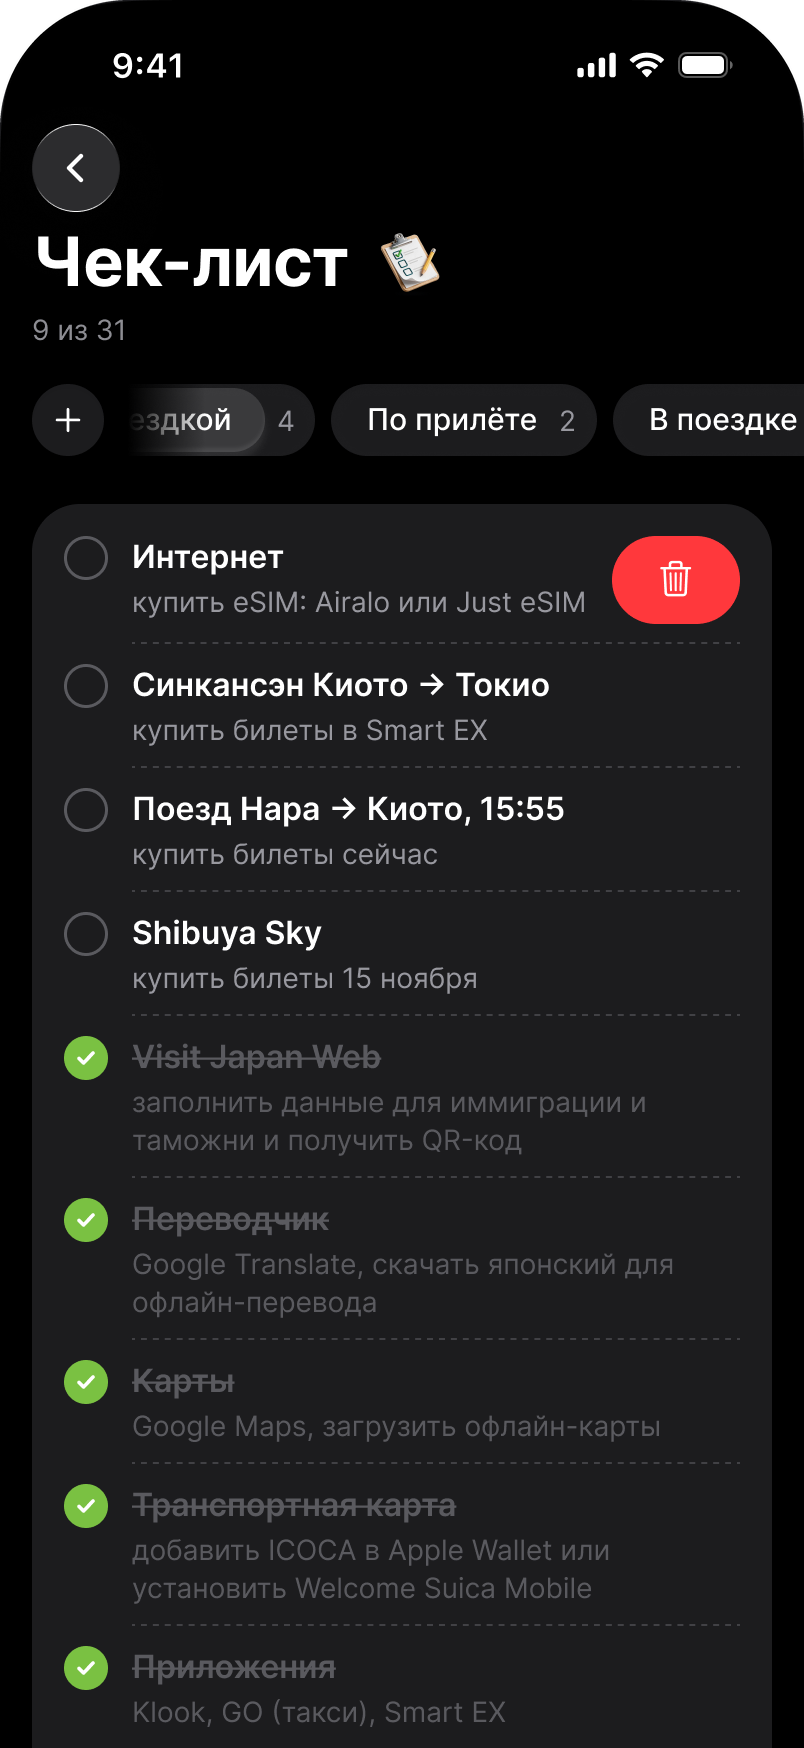
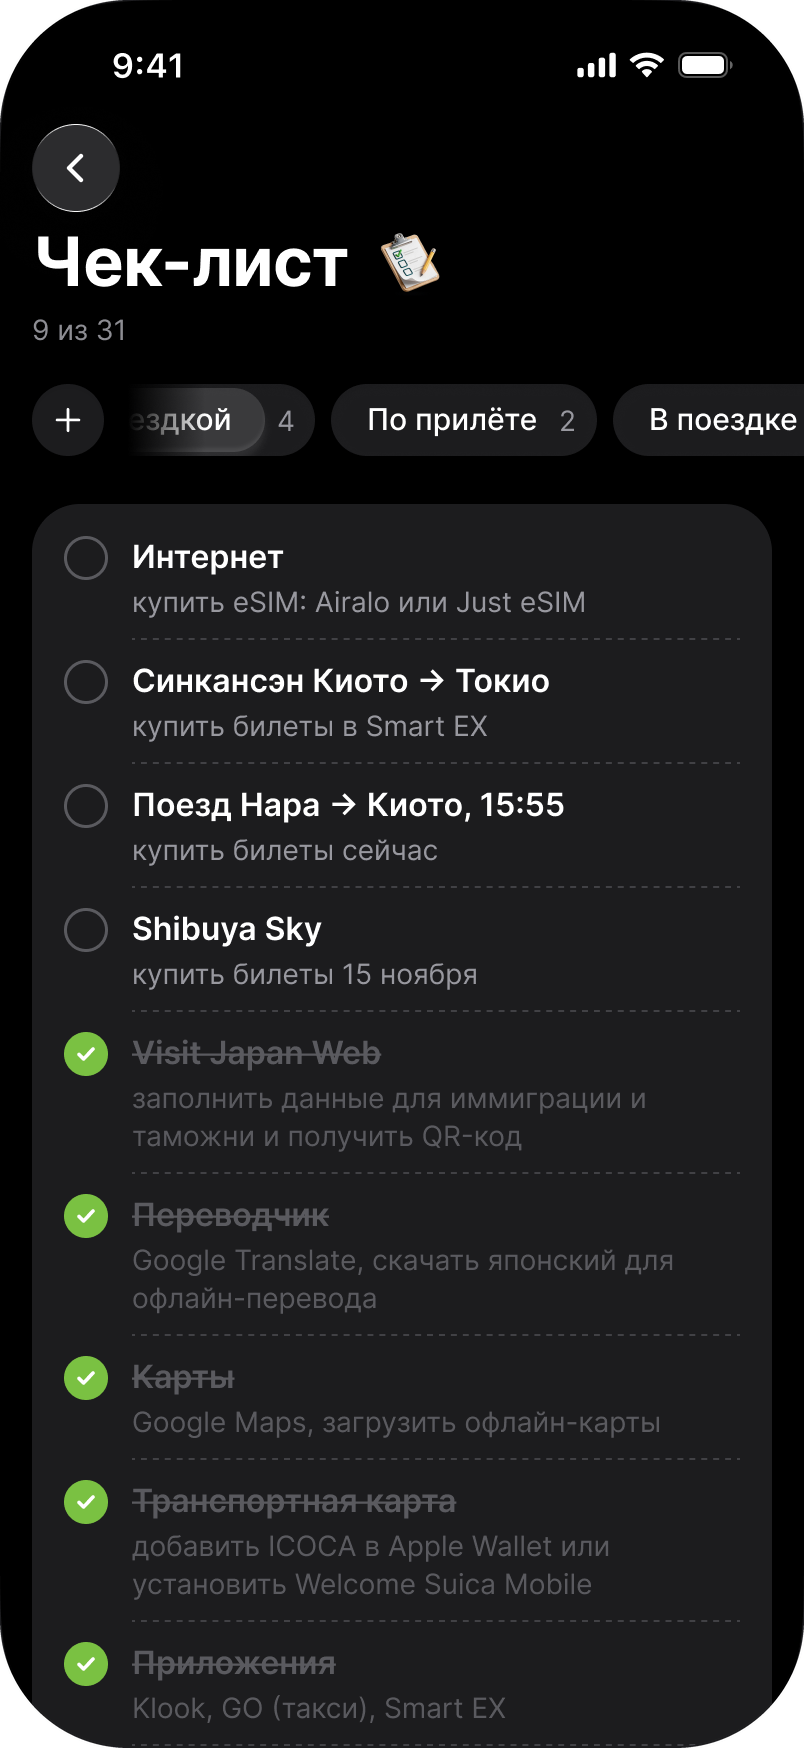
easygoing: тёмный чек-лист, три экрана в превью на телефоне, рамка в галерее
- тёмный чек-лист заменён на свежую выгрузку: прошлая запись файла
  не дошла до папки, на сайт уезжал старый кадр с кнопкой удаления
- превью собрано из целых макетов: на широком экране они свисают
  сверху и обрезаются низом плашки, на телефоне все три влезают
  целиком, как на обложке
- в галерее на телефоне рамка нарисована границей, а не тенью:
  тень выходила за пределы ленты и обрезалась сверху и снизу

Claude-Session: https://claude.ai/code/session_01StpxptfvpjwGYmo7tgMf6k

diff --git a/article.css b/article.css
@@ -598,6 +598,34 @@ a.photo-cell { cursor: pointer; }
   .screen.is-lead { height: 84%; }
 }
 
+/* These shots are whole phones, so the box decides what shows: on a wide
+   screen they hang from the top and the floor cuts their feet, the way the
+   other heroes stand; on a phone all three fit, side by side and the same
+   size, as they do on the card on the home page. */
+.hero.is-screens.is-even,
+.hero.is-screens.is-even .screens { align-items: flex-start; }
+
+.hero.is-screens.is-even .screens { padding-top: 13%; }
+
+.hero.is-screens.is-even .screen,
+.hero.is-screens.is-even .screen.is-lead { height: 144%; }
+
+@media (max-width: 899px) {
+  .hero.is-screens.is-even,
+  .hero.is-screens.is-even .screens { align-items: center; }
+
+  .hero.is-screens.is-even { padding: 0 4%; }
+  .hero.is-screens.is-even .screens { padding-top: 0; gap: 4%; }
+
+  .hero.is-screens.is-even .screen,
+  .hero.is-screens.is-even .screen.is-lead {
+    order: 0;
+    width: calc((100% - 8%) / 3);
+    height: auto;
+    max-height: 100%;
+  }
+}
+
 @keyframes om-rise {
   from { opacity: 0; transform: translateY(22%); }
   to   { opacity: 1; transform: translateY(0); }
@@ -781,10 +809,12 @@ a.photo-cell { cursor: pointer; }
   .rail-shot {
     width: calc((100% - 36px) / 2.15);
     /* Off the plate the light screens melt into the page, so each gets the
-       same hairline the hero has. The radius repeats the one baked into the
-       shot (64 of 402 across, of 874 down), so the ring sits on its edge. */
+       same hairline the hero has. A border, not a shadow: a shadow falls
+       outside the box and the strip, which hides what overflows it, cut the
+       ring off at the top and bottom. The radius repeats the one baked into
+       the shot — 64 of 402 across, 64 of 874 down. */
+    border: 1px solid var(--card-border);
     border-radius: 15.92% / 7.32%;
-    box-shadow: 0 0 0 1px var(--card-border);
   }
 }
 

diff --git a/payment-split.html b/payment-split.html
@@ -73,12 +73,12 @@
 <link rel="preload" as="font" type="font/woff2" crossorigin href="vendor/fonts/UcC73FwrK3iLTeHuS_nVMrMxCp50SjIa0ZL7W0Q5n-wU.woff2">
 <link rel="preload" as="font" type="font/woff2" crossorigin href="vendor/fonts/UcC73FwrK3iLTeHuS_nVMrMxCp50SjIa2JL7W0Q5n-wU.woff2">
 <link rel="stylesheet" href="vendor/inter.css">
-<link rel="stylesheet" href="base.css?v=202611141711">
-<link rel="stylesheet" href="article.css?v=202611141711">
+<link rel="stylesheet" href="base.css?v=202611141715">
+<link rel="stylesheet" href="article.css?v=202611141715">
 <!-- The SVG-only build: these files carry no expressions, images or text layers. -->
 <script src="vendor/lottie_light.min.js" defer></script>
-<script src="shared.js?v=202611141711" defer></script>
-<script src="page-payment-split.js?v=202611141711" defer></script>
+<script src="shared.js?v=202611141715" defer></script>
+<script src="page-payment-split.js?v=202611141715" defer></script>
 
 <!-- Vercel Web Analytics. Served from this domain, not from anyone else's:
      the site still makes no third-party requests. -->

diff --git a/activities.html b/activities.html
@@ -72,12 +72,12 @@
 <link rel="preload" as="font" type="font/woff2" crossorigin href="vendor/fonts/UcC73FwrK3iLTeHuS_nVMrMxCp50SjIa0ZL7W0Q5n-wU.woff2">
 <link rel="preload" as="font" type="font/woff2" crossorigin href="vendor/fonts/UcC73FwrK3iLTeHuS_nVMrMxCp50SjIa2JL7W0Q5n-wU.woff2">
 <link rel="stylesheet" href="vendor/inter.css">
-<link rel="stylesheet" href="base.css?v=202611141711">
-<link rel="stylesheet" href="article.css?v=202611141711">
+<link rel="stylesheet" href="base.css?v=202611141715">
+<link rel="stylesheet" href="article.css?v=202611141715">
 <!-- The SVG-only build: these files carry no expressions, images or text layers. -->
 <script src="vendor/lottie_light.min.js" defer></script>
-<script src="shared.js?v=202611141711" defer></script>
-<script src="page-activities.js?v=202611141711" defer></script>
+<script src="shared.js?v=202611141715" defer></script>
+<script src="page-activities.js?v=202611141715" defer></script>
 
 <!-- Vercel Web Analytics. Served from this domain, not from anyone else's:
      the site still makes no third-party requests. -->

diff --git a/contentlog.html b/contentlog.html
@@ -73,12 +73,12 @@
 <link rel="preload" as="font" type="font/woff2" crossorigin href="vendor/fonts/UcC73FwrK3iLTeHuS_nVMrMxCp50SjIa0ZL7W0Q5n-wU.woff2">
 <link rel="preload" as="font" type="font/woff2" crossorigin href="vendor/fonts/UcC73FwrK3iLTeHuS_nVMrMxCp50SjIa2JL7W0Q5n-wU.woff2">
 <link rel="stylesheet" href="vendor/inter.css">
-<link rel="stylesheet" href="base.css?v=202611141711">
-<link rel="stylesheet" href="article.css?v=202611141711">
+<link rel="stylesheet" href="base.css?v=202611141715">
+<link rel="stylesheet" href="article.css?v=202611141715">
 <!-- The SVG-only build: these files carry no expressions, images or text layers. -->
 <script src="vendor/lottie_light.min.js" defer></script>
-<script src="shared.js?v=202611141711" defer></script>
-<script src="page-contentlog.js?v=202611141711" defer></script>
+<script src="shared.js?v=202611141715" defer></script>
+<script src="page-contentlog.js?v=202611141715" defer></script>
 
 <!-- Vercel Web Analytics. Served from this domain, not from anyone else's:
      the site still makes no third-party requests. -->

diff --git a/desk-setup.html b/desk-setup.html
@@ -73,12 +73,12 @@
 <link rel="preload" as="font" type="font/woff2" crossorigin href="vendor/fonts/UcC73FwrK3iLTeHuS_nVMrMxCp50SjIa0ZL7W0Q5n-wU.woff2">
 <link rel="preload" as="font" type="font/woff2" crossorigin href="vendor/fonts/UcC73FwrK3iLTeHuS_nVMrMxCp50SjIa2JL7W0Q5n-wU.woff2">
 <link rel="stylesheet" href="vendor/inter.css">
-<link rel="stylesheet" href="base.css?v=202611141711">
-<link rel="stylesheet" href="article.css?v=202611141711">
+<link rel="stylesheet" href="base.css?v=202611141715">
+<link rel="stylesheet" href="article.css?v=202611141715">
 <!-- The SVG-only build: these files carry no expressions, images or text layers. -->
 <script src="vendor/lottie_light.min.js" defer></script>
-<script src="shared.js?v=202611141711" defer></script>
-<script src="page-desk-setup.js?v=202611141711" defer></script>
+<script src="shared.js?v=202611141715" defer></script>
+<script src="page-desk-setup.js?v=202611141715" defer></script>
 
 <!-- Vercel Web Analytics. Served from this domain, not from anyone else's:
      the site still makes no third-party requests. -->

diff --git a/animation-challenge.html b/animation-challenge.html
@@ -73,12 +73,12 @@
 <link rel="preload" as="font" type="font/woff2" crossorigin href="vendor/fonts/UcC73FwrK3iLTeHuS_nVMrMxCp50SjIa0ZL7W0Q5n-wU.woff2">
 <link rel="preload" as="font" type="font/woff2" crossorigin href="vendor/fonts/UcC73FwrK3iLTeHuS_nVMrMxCp50SjIa2JL7W0Q5n-wU.woff2">
 <link rel="stylesheet" href="vendor/inter.css">
-<link rel="stylesheet" href="base.css?v=202611141711">
-<link rel="stylesheet" href="article.css?v=202611141711">
+<link rel="stylesheet" href="base.css?v=202611141715">
+<link rel="stylesheet" href="article.css?v=202611141715">
 <!-- The SVG-only build: these files carry no expressions, images or text layers. -->
 <script src="vendor/lottie_light.min.js" defer></script>
-<script src="shared.js?v=202611141711" defer></script>
-<script src="page-animation.js?v=202611141711" defer></script>
+<script src="shared.js?v=202611141715" defer></script>
+<script src="page-animation.js?v=202611141715" defer></script>
 
 <!-- Vercel Web Analytics. Served from this domain, not from anyone else's:
      the site still makes no third-party requests. -->

diff --git a/easygoing.html b/easygoing.html
@@ -73,12 +73,12 @@
 <link rel="preload" as="font" type="font/woff2" crossorigin href="vendor/fonts/UcC73FwrK3iLTeHuS_nVMrMxCp50SjIa0ZL7W0Q5n-wU.woff2">
 <link rel="preload" as="font" type="font/woff2" crossorigin href="vendor/fonts/UcC73FwrK3iLTeHuS_nVMrMxCp50SjIa2JL7W0Q5n-wU.woff2">
 <link rel="stylesheet" href="vendor/inter.css">
-<link rel="stylesheet" href="base.css?v=202611141711">
-<link rel="stylesheet" href="article.css?v=202611141711">
+<link rel="stylesheet" href="base.css?v=202611141715">
+<link rel="stylesheet" href="article.css?v=202611141715">
 <!-- The SVG-only build: these files carry no expressions, images or text layers. -->
 <script src="vendor/lottie_light.min.js" defer></script>
-<script src="shared.js?v=202611141711" defer></script>
-<script src="page-easygoing.js?v=202611141711" defer></script>
+<script src="shared.js?v=202611141715" defer></script>
+<script src="page-easygoing.js?v=202611141715" defer></script>
 
 <!-- Vercel Web Analytics. Served from this domain, not from anyone else's:
      the site still makes no third-party requests. -->

diff --git a/airtrip.html b/airtrip.html
@@ -73,12 +73,12 @@
 <link rel="preload" as="font" type="font/woff2" crossorigin href="vendor/fonts/UcC73FwrK3iLTeHuS_nVMrMxCp50SjIa0ZL7W0Q5n-wU.woff2">
 <link rel="preload" as="font" type="font/woff2" crossorigin href="vendor/fonts/UcC73FwrK3iLTeHuS_nVMrMxCp50SjIa2JL7W0Q5n-wU.woff2">
 <link rel="stylesheet" href="vendor/inter.css">
-<link rel="stylesheet" href="base.css?v=202611141711">
-<link rel="stylesheet" href="article.css?v=202611141711">
+<link rel="stylesheet" href="base.css?v=202611141715">
+<link rel="stylesheet" href="article.css?v=202611141715">
 <!-- The SVG-only build: these files carry no expressions, images or text layers. -->
 <script src="vendor/lottie_light.min.js" defer></script>
-<script src="shared.js?v=202611141711" defer></script>
-<script src="page-airtrip.js?v=202611141711" defer></script>
+<script src="shared.js?v=202611141715" defer></script>
+<script src="page-airtrip.js?v=202611141715" defer></script>
 
 <!-- Vercel Web Analytics. Served from this domain, not from anyone else's:
      the site still makes no third-party requests. -->

diff --git a/cards.html b/cards.html
@@ -73,12 +73,12 @@
 <link rel="preload" as="font" type="font/woff2" crossorigin href="vendor/fonts/UcC73FwrK3iLTeHuS_nVMrMxCp50SjIa0ZL7W0Q5n-wU.woff2">
 <link rel="preload" as="font" type="font/woff2" crossorigin href="vendor/fonts/UcC73FwrK3iLTeHuS_nVMrMxCp50SjIa2JL7W0Q5n-wU.woff2">
 <link rel="stylesheet" href="vendor/inter.css">
-<link rel="stylesheet" href="base.css?v=202611141711">
-<link rel="stylesheet" href="article.css?v=202611141711">
+<link rel="stylesheet" href="base.css?v=202611141715">
+<link rel="stylesheet" href="article.css?v=202611141715">
 <!-- The SVG-only build: these files carry no expressions, images or text layers. -->
 <script src="vendor/lottie_light.min.js" defer></script>
-<script src="shared.js?v=202611141711" defer></script>
-<script src="page-cards.js?v=202611141711" defer></script>
+<script src="shared.js?v=202611141715" defer></script>
+<script src="page-cards.js?v=202611141715" defer></script>
 
 <!-- Vercel Web Analytics. Served from this domain, not from anyone else's:
      the site still makes no third-party requests. -->

diff --git a/city-identity.html b/city-identity.html
@@ -73,12 +73,12 @@
 <link rel="preload" as="font" type="font/woff2" crossorigin href="vendor/fonts/UcC73FwrK3iLTeHuS_nVMrMxCp50SjIa0ZL7W0Q5n-wU.woff2">
 <link rel="preload" as="font" type="font/woff2" crossorigin href="vendor/fonts/UcC73FwrK3iLTeHuS_nVMrMxCp50SjIa2JL7W0Q5n-wU.woff2">
 <link rel="stylesheet" href="vendor/inter.css">
-<link rel="stylesheet" href="base.css?v=202611141711">
-<link rel="stylesheet" href="article.css?v=202611141711">
+<link rel="stylesheet" href="base.css?v=202611141715">
+<link rel="stylesheet" href="article.css?v=202611141715">
 <!-- The SVG-only build: these files carry no expressions, images or text layers. -->
 <script src="vendor/lottie_light.min.js" defer></script>
-<script src="shared.js?v=202611141711" defer></script>
-<script src="page-city.js?v=202611141711" defer></script>
+<script src="shared.js?v=202611141715" defer></script>
+<script src="page-city.js?v=202611141715" defer></script>
 
 <!-- Vercel Web Analytics. Served from this domain, not from anyone else's:
      the site still makes no third-party requests. -->

diff --git a/mujo.html b/mujo.html
@@ -73,12 +73,12 @@
 <link rel="preload" as="font" type="font/woff2" crossorigin href="vendor/fonts/UcC73FwrK3iLTeHuS_nVMrMxCp50SjIa0ZL7W0Q5n-wU.woff2">
 <link rel="preload" as="font" type="font/woff2" crossorigin href="vendor/fonts/UcC73FwrK3iLTeHuS_nVMrMxCp50SjIa2JL7W0Q5n-wU.woff2">
 <link rel="stylesheet" href="vendor/inter.css">
-<link rel="stylesheet" href="base.css?v=202611141711">
-<link rel="stylesheet" href="article.css?v=202611141711">
+<link rel="stylesheet" href="base.css?v=202611141715">
+<link rel="stylesheet" href="article.css?v=202611141715">
 <!-- The SVG-only build: these files carry no expressions, images or text layers. -->
 <script src="vendor/lottie_light.min.js" defer></script>
-<script src="shared.js?v=202611141711" defer></script>
-<script src="page-mujo.js?v=202611141711" defer></script>
+<script src="shared.js?v=202611141715" defer></script>
+<script src="page-mujo.js?v=202611141715" defer></script>
 
 <!-- Vercel Web Analytics. Served from this domain, not from anyone else's:
      the site still makes no third-party requests. -->

diff --git a/wb.html b/wb.html
@@ -73,12 +73,12 @@
 <link rel="preload" as="font" type="font/woff2" crossorigin href="vendor/fonts/UcC73FwrK3iLTeHuS_nVMrMxCp50SjIa0ZL7W0Q5n-wU.woff2">
 <link rel="preload" as="font" type="font/woff2" crossorigin href="vendor/fonts/UcC73FwrK3iLTeHuS_nVMrMxCp50SjIa2JL7W0Q5n-wU.woff2">
 <link rel="stylesheet" href="vendor/inter.css">
-<link rel="stylesheet" href="base.css?v=202611141711">
-<link rel="stylesheet" href="article.css?v=202611141711">
+<link rel="stylesheet" href="base.css?v=202611141715">
+<link rel="stylesheet" href="article.css?v=202611141715">
 <!-- The SVG-only build: these files carry no expressions, images or text layers. -->
 <script src="vendor/lottie_light.min.js" defer></script>
-<script src="shared.js?v=202611141711" defer></script>
-<script src="page-wb.js?v=202611141711" defer></script>
+<script src="shared.js?v=202611141715" defer></script>
+<script src="page-wb.js?v=202611141715" defer></script>
 
 <!-- Vercel Web Analytics. Served from this domain, not from anyone else's:
      the site still makes no third-party requests. -->
